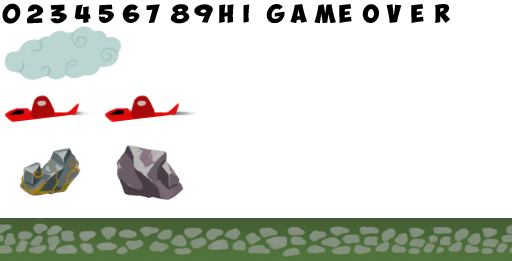
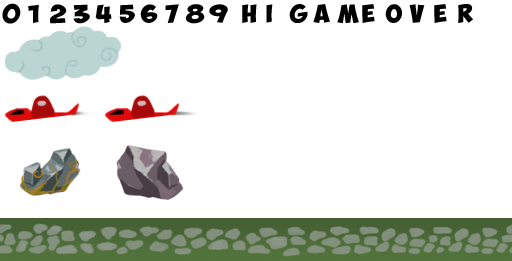
new env sheet

Changed region(s): [[0.0312, 0.0, 0.9375, 0.092]]

diff --git a/src/js/digits.js b/src/js/digits.js
@@ -1,0 +1,14 @@
+export const digits = {
+	digits: {
+		width:23,
+		height:30
+	},
+	HI: {
+		width:40,
+		height:30
+	},
+	game_over: {
+		width:210,
+		height:30
+	}
+};
